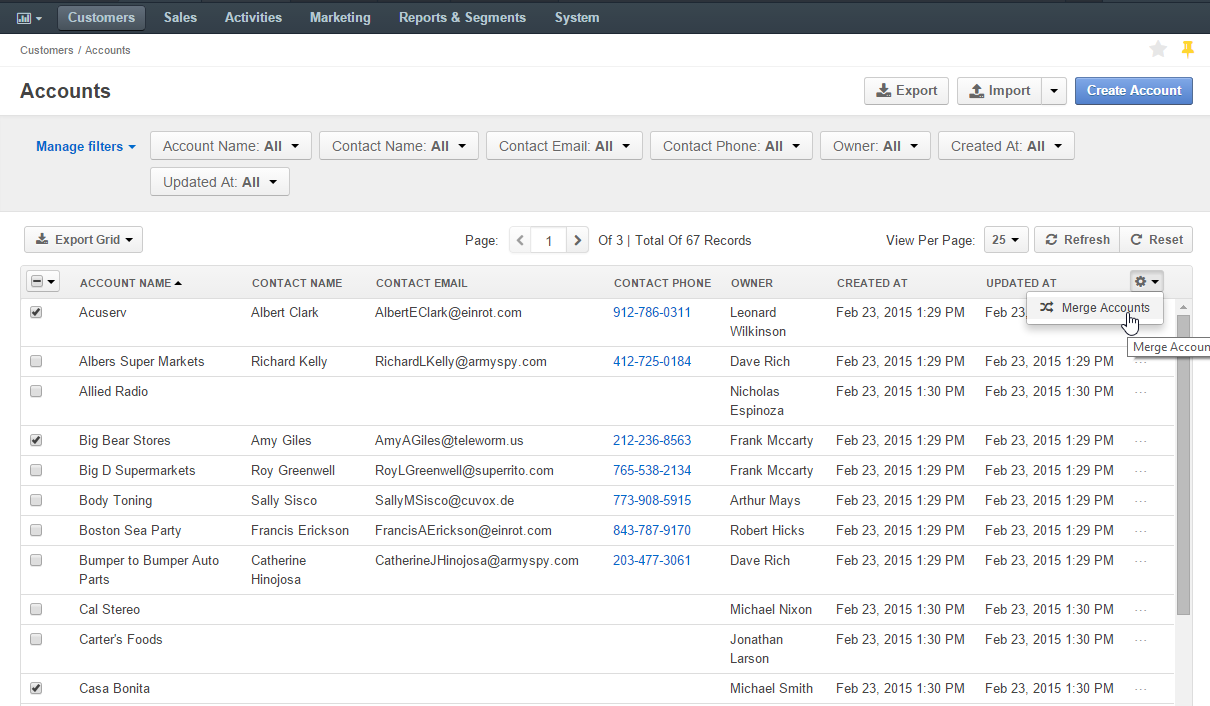
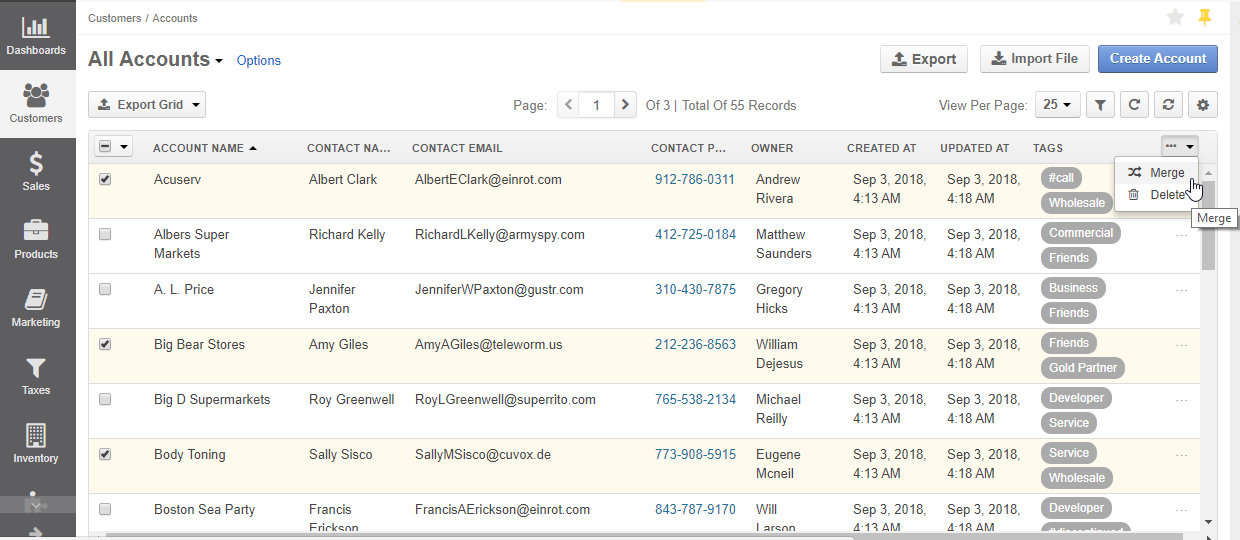
DOC-893: Merging accounts documentation update (#19794)

diff --git a/user_guide_sales_tools/customer_management/common_features_accounts.rst b/user_guide_sales_tools/customer_management/common_features_accounts.rst
@@ -224,37 +224,49 @@ In order to merge accounts:
 
 1. Go to the list of all accounts.
 
-2. Find the accounts that you want to merge.
+2. Select the accounts that you want to merge.
 
-3. Click the **Merge** icon. (See :ref:`Merge Records <doc-grids-actions-records-merge>`).
+3. Click the ellipsis menu at the right end of the table header row, and then click the |IcMerge| **Merge** icon. (See :ref:`Merge Records <doc-grids-actions-records-merge>`).
 
-   As an example, we are merging three accounts: Acuserv, Big Bear Stores and Casa Bonita.
+   As an example, we are merging three accounts: Acuserv, Big Bear Stores, and Body Toning.
 
    .. image:: /user_guide/img/accounts/accounts_merge_01.png
       :alt: Click the merge icon to see merge records
 
-4. Once you click **Merge Accounts**, a table with the merge-settings will appear.
+4. Once you click **Merge**, a table with the merge-settings appears.
 
-   .. image:: /user_guide/img/accounts/accounts_merge_02.png
-      :alt: Click merge accounts
+   .. image:: /user_guide/img/accounts/accounts_merge_02_part1.png
+      :alt: Click merge accounts, part 1
 
 
-5. Choose the name of one of the accounts that is being merged to give to your new account (Master Record).
+   .. image:: /user_guide/img/accounts/accounts_merge_02_part2.png
+      :alt: Click merge accounts, part 2
 
-6. Choose if the contacts should replaced with the contacts of one account (and which), or if all the contacts should be appended.
 
-7. Choose the default contact of the accounts being merged, that will be given to the Master Record.
+5. Choose a name of the accounts that are being merged to give to your new account (Master Record).
 
-8. Choose the description of the accounts being merged that will be given to the Master Record.
+6. Choose the accounts merging strategy:
 
-9. Choose the owner of the accounts being merged that will be given to the Master Record.
+   * *Append* - combines selected values and assigns them to the master record.
+   * *Replace* - uses the selected value as the new value for the corresponding field.
 
-10. Choose if the tags should be replaced with the contacts of one account (and which), or if all the tags should be appended.
+7. Apply the strategy to the attachments, calendar event activity, call activity, contacts, email activity, note activity, tags, and task activity.
 
-11. Click **Merge**.
+8. Choose the default contact of the accounts being merged to give to the Master Record.
 
-    A Master Record with merged data of several accounts will be created. The rest of the account details, including details of the customer identities will be appended.
+9. Choose the description of the accounts being merged to give to the Master Record.
 
+10. Choose the last contact datetime as well as the last incoming and outgoing contact datetime to give to the Master Record.
+
+11. Choose the owner of the accounts being merged to give to the Master Record.
+
+12. Choose the total number of incoming and outgoing contact attempts and total times the account has been contacted to give to the Master Record.
+
+13. Click **Merge**.
+
+    A Master Record with merged data of several accounts is created. The rest of the account details, including details of the customer identities are merged using the append strategy.
+
+    .. note:: Keep in mind that after you create a new account profile (Master Record), the accounts that were merged are automatically deleted from the list of all accounts.
 
 .. _user-guide-accounts-reports:
 

diff --git a/user_guide/records/manage_records.rst b/user_guide/records/manage_records.rst
@@ -106,7 +106,7 @@ Merge Records
 To merge records:
 
 1. In the table, select the check boxes in front of the records you want to merge.
-2. Click the ellipsis menu at the right end of the table header row, and the click the |IcMerge| **Merge** icon.
+2. Click the ellipsis menu at the right end of the table header row, and then click the |IcMerge| **Merge** icon.
 
 .. image:: /user_guide/img/getting_started/records/grids/grids_merge.png
    :alt: Merge records
